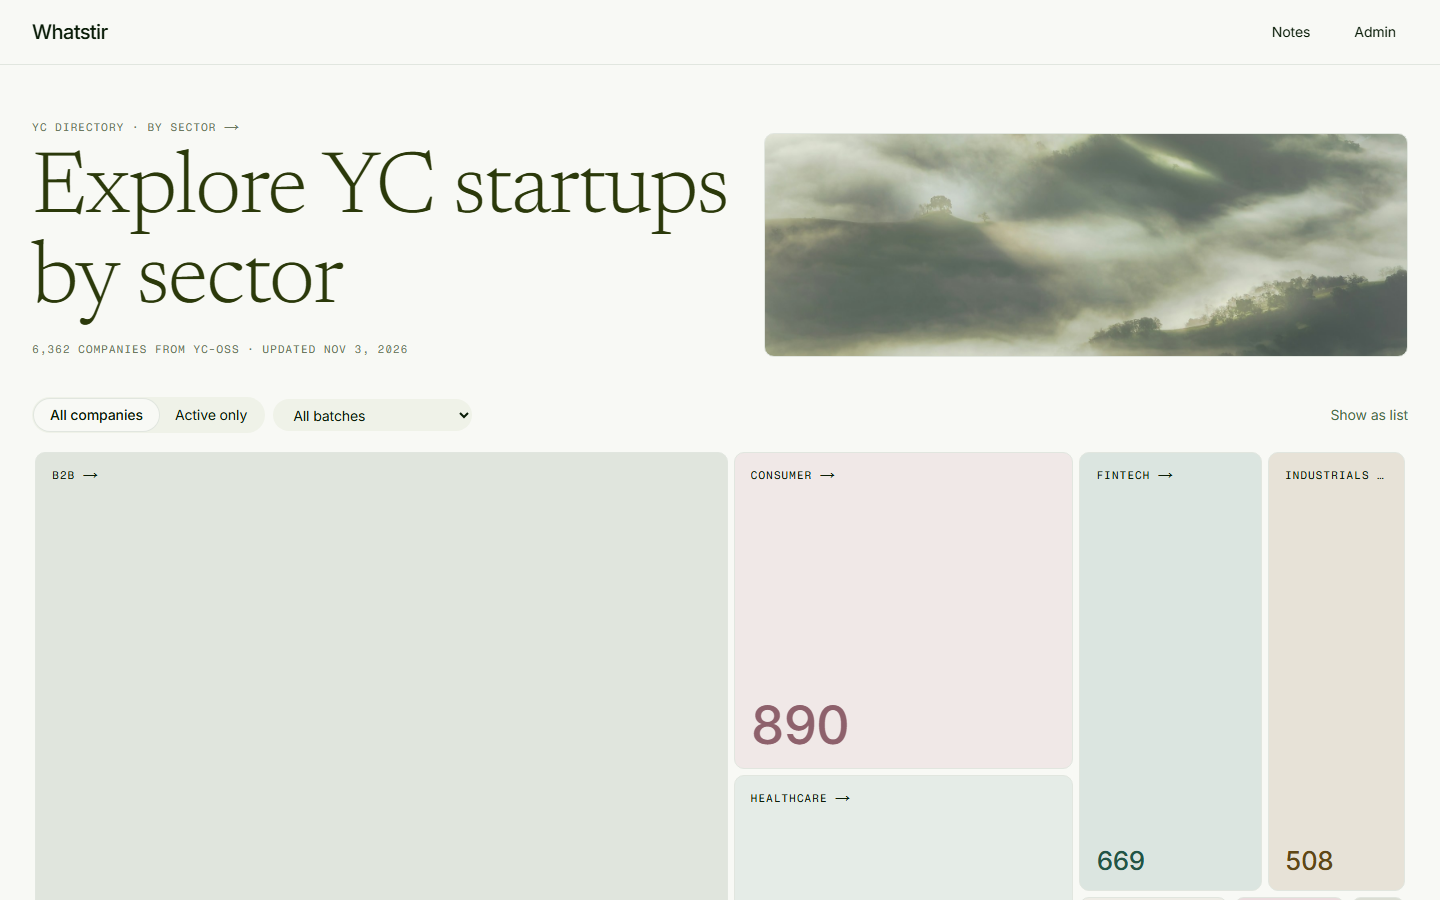
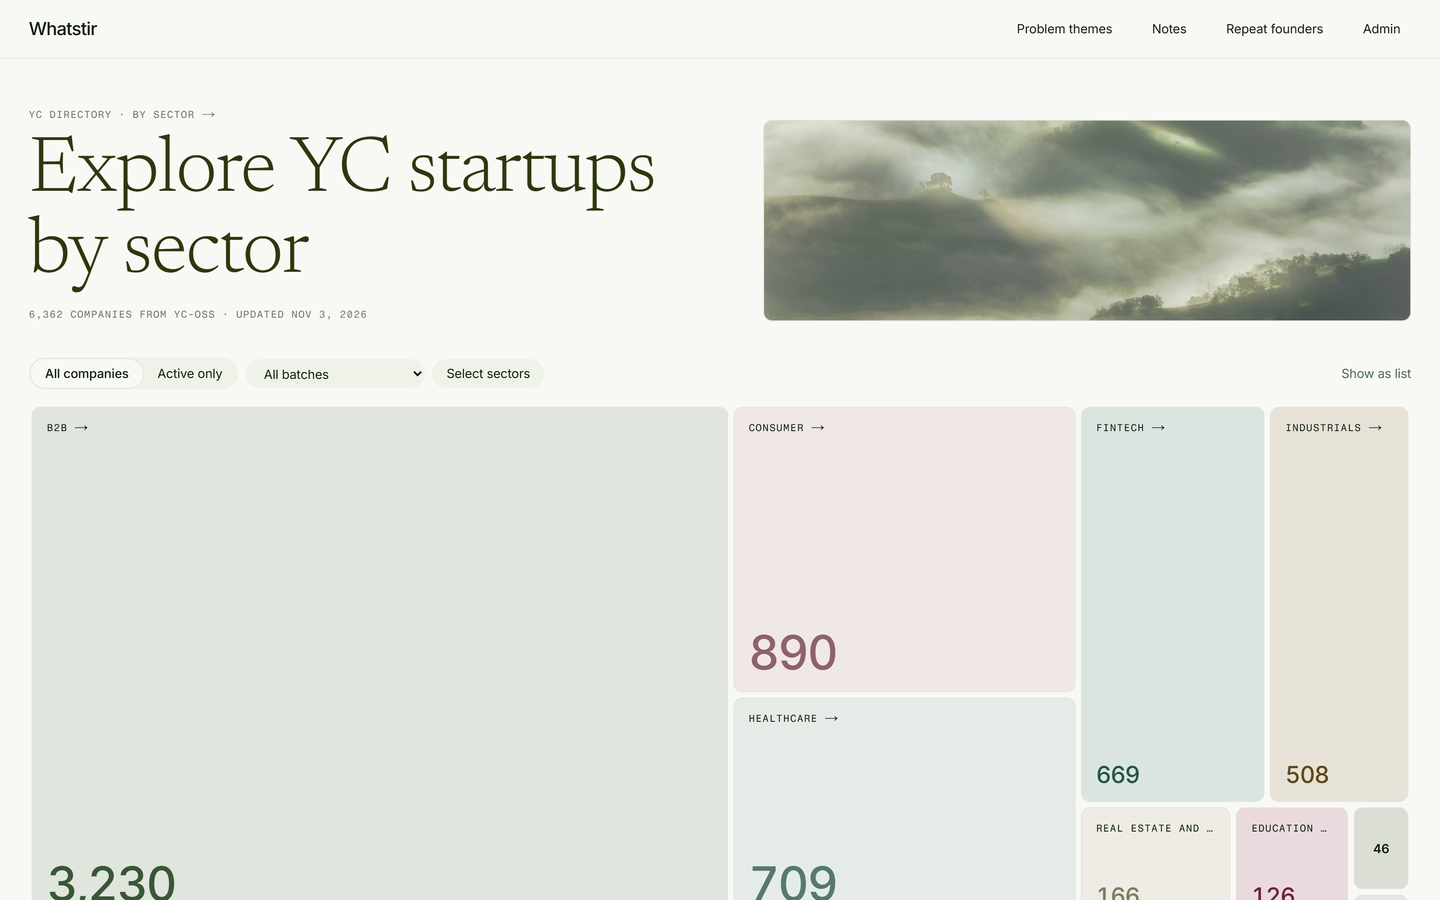
Show the newest features and the updated demo video in the README (#85)
Covers several sectors at once, sector comparison, problem themes, theme
trends and repeat founders in the tagline, features, screenshots and how it
works, and links the new 4:56 demo from a poster to the project site.

Closes #84

diff --git a/README.md b/README.md
@@ -4,7 +4,7 @@
 
 **Explore Y Combinator startups by sector and by the customer problems they solve.**
 
-Pick a sector, ask questions in plain English, and watch the companies each answer relies on collect in a grid.
+Pick a sector or several, ask questions in plain English, and watch the companies each answer relies on collect in a grid. Then follow the same customer problems across every sector and across YC batches.
 
 ![Next.js 16](https://img.shields.io/badge/Next.js-16-0a1d08?logo=nextdotjs&logoColor=white)
 ![React 19](https://img.shields.io/badge/React-19-4a6d47?logo=react&logoColor=white)
@@ -16,7 +16,7 @@ Pick a sector, ask questions in plain English, and watch the companies each answ
 
 <a href="https://www.producthunt.com/products/whatstir?embed=true&amp;utm_source=badge-featured&amp;utm_medium=badge&amp;utm_campaign=badge-whatstir" target="_blank" rel="noopener noreferrer"><img alt="Whatstir - Explore YC startups by sector and the problems they solve | Product Hunt" width="250" height="54" src="https://api.producthunt.com/widgets/embed-image/v1/featured.svg?post_id=1308170&amp;theme=light&amp;t=1794087108402"></a>
 
-<img src="docs/images/home.png" alt="The Whatstir home page: a serif headline beside a misty landscape, and a treemap of YC sectors sized by company count" width="100%">
+<img src="docs/images/home.png" alt="The Whatstir home page: a serif headline beside a misty landscape, filters with Select sectors, and a treemap of YC sectors sized by company count" width="100%">
 
 </div>
 
@@ -49,15 +49,22 @@ Pick a sector, ask questions in plain English, and watch the companies each answ
 
 ## Demo video
 
-A three-and-a-half-minute tour, from the problem Whatstir solves to how it works: the sector map, filters, groups, asking questions, profiles, compare and notes.
+A five-minute tour, from the problem Whatstir solves to how it works: the sector map, filters, groups, asking questions, profiles, compare and notes, then researching several sectors at once, comparing sectors, problem themes, how themes change over time, and repeat founders.
 
-https://github.com/user-attachments/assets/ffe0e2e5-434d-4f02-be8f-5d640ac7faa6
+<a href="https://shivamshinde123.github.io/whatstir/#demo"><img src="docs/images/demo-poster.jpg" alt="Play the Whatstir demo video (4:56) on the project site" width="100%"></a>
+
+[Watch the demo on the project site](https://shivamshinde123.github.io/whatstir/#demo) (4:56).
 
 <sub>Music: "Inspired" by Kevin MacLeod ([incompetech.com](https://incompetech.com)), licensed under [CC BY 4.0](https://creativecommons.org/licenses/by/4.0/).</sub>
 
 ## Features
 
 - 🪴 **Sector treemap.** About 6,400 YC companies across 9 sectors, sized by count. Filter by batch ("Fall 2026") or show active companies only.
+- 🌾 **Several sectors at once.** **Select sectors** on the home page, pick two or more, and **Research companies** opens one workspace with their baskets combined and a chat scoped to all of them. Each set of sectors keeps its own session.
+- ⚖ **Compare sectors.** Put two to four sectors side by side: company counts, active share, the share tagged AI, companies by batch year, the problem themes they share, and their top themes, groups and tags.
+- 🧭 **Problem themes.** Every company is clustered by what it does into up to 40 problem themes that cut across sectors, each named by a model. See a theme's sector mix, then open all of its companies as a workspace and ask questions inside the theme.
+- 📈 **Problem themes over time.** A Trend Explorer shows which problems are rising or fading across YC batches: summary cards, a sparkline per theme, a heatmap by year, and a chart comparing up to five themes.
+- 🔁 **Repeat founders.** People who founded more than one YC company, matched by LinkedIn, with their companies newest first and whether they stayed in one sector. Search them and compare a founder's companies side by side.
 - 🧺 **The basket.** Every company in a sector as a wall of logos, narrowed by AI-suggested problem groups ("Scheduling", "Billing", …) and by name.
 - 🦉 **Ask, Explore, Challenge.** Ask questions about the sector, a group, a batch or a hand-picked selection. Answers are written only from the companies' own descriptions and cite the companies they rely on.
 - 🪢 **Follow-ups that remember.** Every company already discussed stays in context for the whole session, so you can just ask "Tell me more about this company".
@@ -78,6 +85,22 @@ https://github.com/user-attachments/assets/ffe0e2e5-434d-4f02-be8f-5d640ac7faa6
 
 ![A company profile with its description, links and AI-generated problem card, next to the results grid and chat](docs/images/profile.png)
 
+**Problem themes,** with a theme's companies, sectors and sector mix.
+
+![The Problem themes page: a searchable list of themes and the selected theme's company count, sectors and sector mix](docs/images/problem-themes.png)
+
+**Problem themes over time,** with two themes compared across YC batches.
+
+![Two problem themes compared on one chart of their share of companies by batch year, with a comparison summary table](docs/images/theme-trends.png)
+
+**Compare sectors,** here B2B, Fintech and Healthcare.
+
+![Compare sectors: sector chips, an overview table of counts and shares, and a line chart of companies by batch year](docs/images/compare-sectors.png)
+
+**Repeat founders,** grouped by whether they stayed in one sector.
+
+![The Repeat founders page: totals for founders who stayed in one sector or changed, and cards listing each founder's companies](docs/images/repeat-founders.png)
+
 ## How it works
 
 ```mermaid
@@ -92,7 +115,8 @@ flowchart LR
 
 1. **Ingest.** `refresh` loads the yc-oss feed into Postgres. Each company is embedded (`text-embedding-3-small` by default) and given a short **problem card** written from its own description (`gpt-6-luna` by default). It's also placed in AI-suggested problem groups by **Jev** (`jev-latest`). Every AI call goes through [OpenRouter](https://openrouter.ai), with one key.
 2. **Ask.** A question is embedded, and pgvector picks the closest companies in scope (sector, group, batch or selection). Companies already discussed in the session are added back, and the whole conversation goes along. The answer model (`gpt-6.1-sol` by default; any structured-output model through OpenRouter) must answer from those descriptions only and cite company ids. Citations are checked against the candidates, and the cited companies join the grid. If the model needs facts the dataset lacks, one web search through OpenRouter adds a separate, labelled part with source links.
-3. **Keep fresh.** Vercel Cron calls `/api/cron/refresh` daily. Enrichment is keyed by content hashes, so unchanged companies cost nothing.
+3. **Find patterns.** `npm run themes` (or **Generate themes** in Admin) clusters the company embeddings into up to 40 problem themes with k-means, locally, and the writing model names each one. Theme trends compare each theme's share of companies in two windows of complete batch years (2020–2022 against 2023–2025 today); the current year is shown but left out of the change. With founder fetching on, founders are read from YC company pages and matched across companies by their LinkedIn profile to find repeat founders.
+4. **Keep fresh.** Vercel Cron calls `/api/cron/refresh` daily. Enrichment is keyed by content hashes, so unchanged companies cost nothing.
 
 There's more depth in [docs/system-architecture-document.md](docs/system-architecture-document.md) and [docs/flow.md](docs/flow.md).
 
@@ -254,10 +278,10 @@ Tests never call OpenRouter or YC. Vitest sets `AI_FAKE=1` and `FOUNDERS_FETCH=o
 
 ```text
 app/            Next.js routes: pages, API route handlers, the login page
-components/     React components (Workspace, Basket, ResultsGrid, Chat, Treemap, Tooltips, …)
-lib/            Server logic: ingestion, enrichment, retrieval, answers, sessions, notes
+components/     React components (Workspace, Basket, ResultsGrid, Chat, Treemap, ThemesView, ThemeTrendsView, SectorComparisonView, FoundersView, …)
+lib/            Server logic: ingestion, enrichment, retrieval, answers, sessions, notes, themes, trends, founders
 db/migrations/  SQL migrations (run with npm run migrate)
-scripts/        CLI entry points: migrate, refresh, subcategories, backfill
+scripts/        CLI entry points: migrate, refresh, subcategories, backfill, themes
 e2e/            Playwright end-to-end tests and a local feed server
 smoke/          Read-only checks for a live deployment
 test/           Test helpers and the 37-company fixture

diff --git a/CHANGELOG.md b/CHANGELOG.md
@@ -15,7 +15,7 @@ All notable changes to Whatstir are recorded here. The format follows [Keep a Ch
 - Make all six sector-comparison panels independently collapsible and closed by default (#71).
 - Cross-sector problem themes, with a searchable sidebar explorer, sector charts and tables, and theme-scoped company research. View all companies opens the full Companies basket; Results grows from answer citations. Generate themes manually from Admin or `npm run themes` (#69).
 - Research multiple sectors together, with combined company baskets, sector-labelled groups and persistent sessions per sector set (#68).
-- **A demo video in the README.** A three-and-a-half-minute tour of Whatstir plays at the top of the README (#63).
+- **A demo video in the README.** A five-minute tour of Whatstir, now covering several sectors at once, sector comparison, problem themes, theme trends and repeat founders, is linked from the top of the README and plays on the project site (#63, #84).
 - **Repeat founders.** A new Founders page lists people who founded more than one YC company, matched by LinkedIn, with their companies in order and whether they stayed in one sector. Search by founder or company name, and compare a founder's companies side by side. Admin has a switch to turn founder fetching on and an Extract founders button to fill it in (#67).
 - **A how-it-works slide deck.** `docs/diagrams/` has an eight-slide Excalidraw deck covering the refresh, enrichment, exploring, the company card and asking a question, plus a GIF of the company card scrolling (#65).
 
